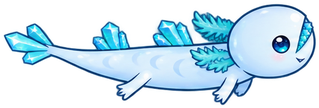
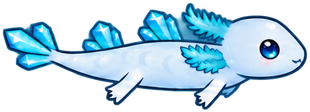
Add files via upload

diff --git a/index.html b/index.html
@@ -6,7 +6,7 @@
 <title>Whisker Lake</title>
 <link rel="preconnect" href="https://fonts.googleapis.com">
 <link rel="stylesheet" href="https://fonts.googleapis.com/css2?family=Lilita+One&family=Nunito:wght@600;700;800&display=swap">
-<link rel="stylesheet" href="styles.css?v=2026-10-06g">
+<link rel="stylesheet" href="styles.css?v=2026-10-06h">
 </head>
 <body>
 <div id="app">
@@ -111,6 +111,6 @@
 </div>
 
 <!-- When you upload changed files, change the version (both places) so browsers fetch the new ones -->
-<script src="js/loader.js?v=2026-10-06g"></script>
+<script src="js/loader.js?v=2026-10-06h"></script>
 </body>
 </html>

diff --git a/data/creatures.js b/data/creatures.js
@@ -1412,12 +1412,14 @@ DATA.creatures =
     "cols": 4,
     "rows": 2,
     "frames": 8,
-    "fps": 10,
+    "fps": 8,
+    "blend": true,
     "faces": "left",
     "w": 348,
-    "h": 198,
-    "snout": [16.2, 108.6],
-    "len": 313
+    "h": 183,
+    "snout": [15.6, 100.2],
+    "len": 312,
+    "centre": [171.6, 102.8]
    }
   },
   {
